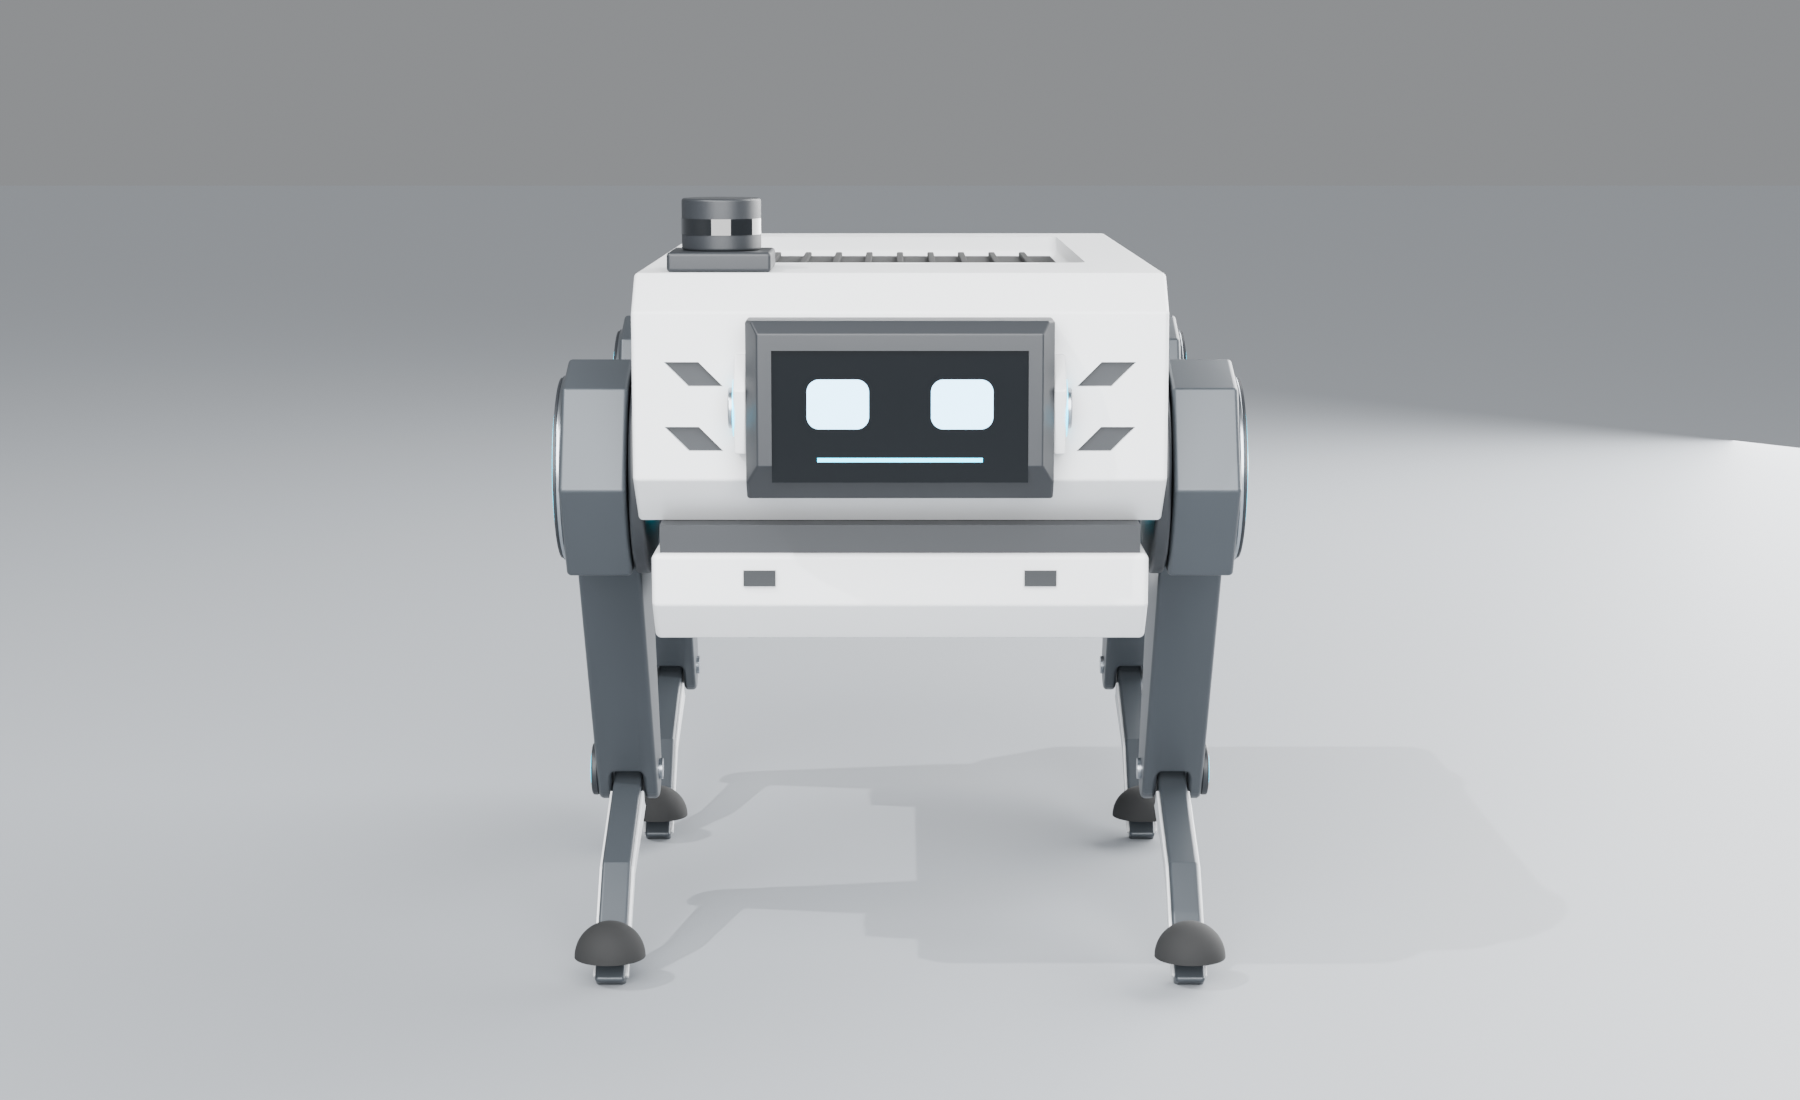
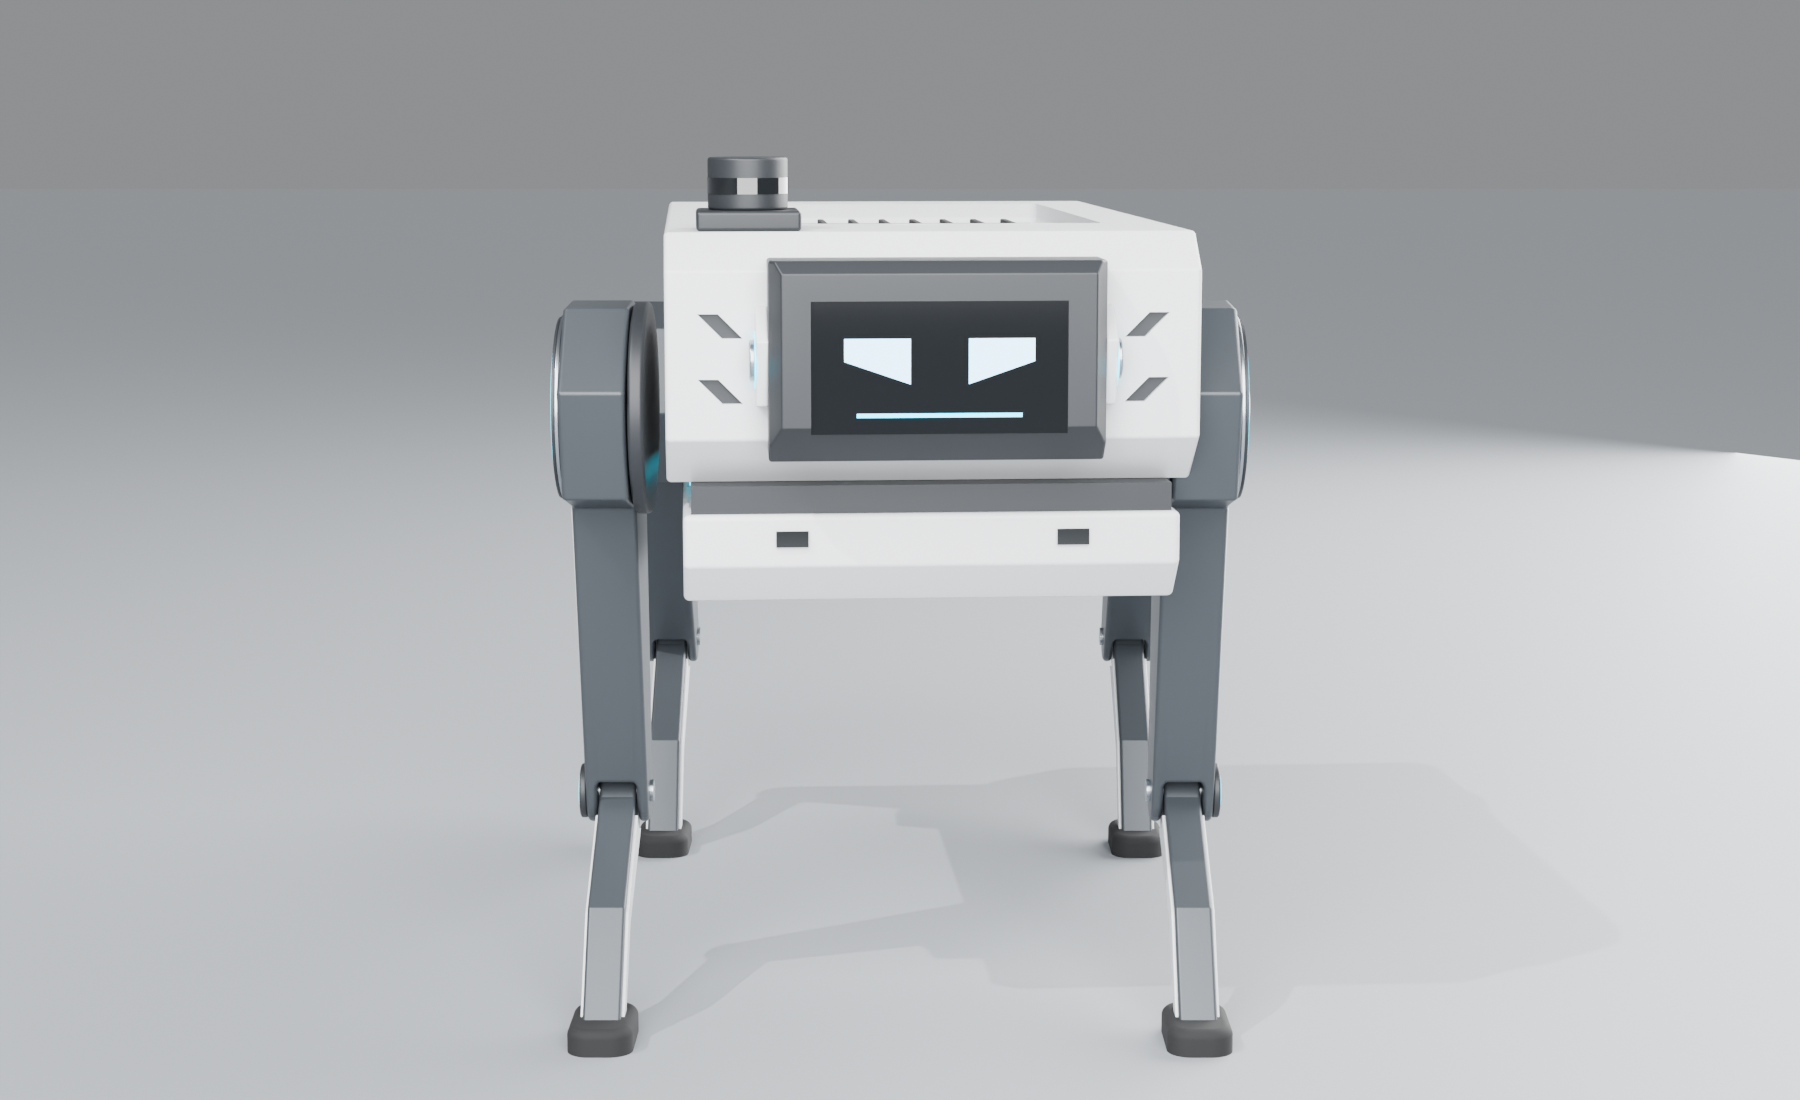
007A 外观 v7（不怂）：腿伸直（膝 110°）、四脚撑开 ±45、机身前高后低 4°、头上移做大、小腿加宽、平底宽脚垫、眼睛改成有棱角；附 v6.1 对比图

Changed region(s): [[0.28, 0.1236, 0.7156, 0.9891], [0.8711, 0.3709, 1.0, 0.4327]]

diff --git a/007a/model.py b/007a/model.py
@@ -31,8 +31,11 @@ H0, K0, B0, T0 = (97, 122), (307, 262), (213, 295), (155, 345)
 L1 = 230.0
 S = L1 / math.dist(H0, K0)
 LS = math.dist(K0, T0) * S                       # 小腿（膝 → 脚尖）
-STAND_KNEE = 90.0
-HIP_Z = math.sqrt(L1 ** 2 + LS ** 2 - 2 * L1 * LS * math.cos(math.radians(STAND_KNEE)))
+STAND_KNEE = 110.0                               # v7：膝伸直一些（90° 太蹲，看着怂）
+FOOT_DX = 45.0                                   # v7：前脚放在前髋前面 45、后脚放在后髋后面 45（四脚撑开）
+PITCH = 4.0                                      # v7：机身前高后低 4°（挺胸）
+_D = math.sqrt(L1 ** 2 + LS ** 2 - 2 * L1 * LS * math.cos(math.radians(STAND_KNEE)))
+HIP_Z = math.sqrt(_D ** 2 - FOOT_DX ** 2)        # 机身中心处的髋高（前髋略高、后髋略低）
 Z0 = HIP_Z - 80.0                                # 机身底离地（髋在下层底盘上方）
 TUB_TOP, WAIST_TOP = Z0 + 46, Z0 + 60            # 下层底盘顶、黑腰顶（上层外壳 125 高）
 TOP = Z0 + BODY_H
@@ -60,7 +63,7 @@ HUB_F = _hub_scale()
 KNEE_TOP = [(303, 234), (311, 245), (313, 262)]
 KNEE_BOT = [(296, 266)]
 SHANK_SK = [(310, 250), (317, 265), (311, 285), (218, 303), (160, 348), (149, 340), (208, 288), (294, 262)]
-T_THIGH, T_SHANK = 34.0, 16.0                    # v3：小腿插在大腿膝盖的叉口里，两段在同一个面上
+T_THIGH, T_SHANK = 34.0, 20.0                    # v3：小腿插在大腿膝盖的叉口里，两段在同一个面上
 LEG_Y = W2 + 8 + T_THIGH / 2                     # 大腿中面离中线
 
 
@@ -181,10 +184,17 @@ def leg_2d(foot=(0.0, -HIP_Z)):
     return thigh, shank, knee, foot
 
 
+def pitch_xz(x, z):
+    """机身（水平画的）上的点 → 抬头 PITCH 以后的位置（绕机身中心 (0, HIP_Z) 转）。"""
+    a = math.radians(PITCH)
+    dz = z - HIP_Z
+    return x * math.cos(a) - dz * math.sin(a), HIP_Z + x * math.sin(a) + dz * math.cos(a)
+
+
 def leg_parts(fx, sy):
-    """一条腿（fx = 1 前 / -1 后，sy = 1 左 / -1 右）的零件，已放到机身上。"""
-    thigh, shank, knee, foot = leg_2d()
-    hx, hz = fx * HIP_X, HIP_Z
+    """一条腿（fx = 1 前 / -1 后，sy = 1 左 / -1 右）的零件，已放到机身上。髋跟着机身抬头，脚踩在地上撑开。"""
+    hx, hz = pitch_xz(fx * HIP_X, HIP_Z)
+    thigh, shank, knee, foot = leg_2d((fx * (HIP_X + FOOT_DX) - hx, -hz))
     P = []
 
     def place(s, y0):
@@ -222,17 +232,18 @@ def leg_parts(fx, sy):
         P.append((f"髋螺栓{k}", place(cyl_y(30 * math.cos(a), 30 * math.sin(a), 6, y_out + 4, y_out + 5.5), 0), "metal"))
     # 小腿：和大腿同一个中面，插在叉口里；两面各贴一条浅色盖板
     ys0 = yc - T_SHANK / 2
-    sh = soft(prism_xz(shank, ys0, ys0 + T_SHANK), 2.0)
+    sh = soft(prism_xz_offset(shank, 3.0, ys0, ys0 + T_SHANK), 2.0)          # v7：小腿轮廓外扩 3（更结实）
     P.append(("小腿", place(sh, 0), "skel"))
     for y0, y1 in ((ys0 - 1.5, ys0 + 0.5), (ys0 + T_SHANK - 0.5, ys0 + T_SHANK + 1.5)):
-        sc = prism_xz_offset(shank, -4.0, y0, y1).cut(cyl_y(kx, kz, 2 * RK + 8, y0 - 1, y1 + 1))
+        sc = prism_xz_offset(shank, -1.5, y0, y1).cut(cyl_y(kx, kz, 2 * RK + 8, y0 - 1, y1 + 1))
         P.append((f"小腿盖板{y0:.0f}", place(soft(sc, 0.6), 0), "shell"))
     P.append(("膝轴", place(cyl_y(kx, kz, 12, yc - T_THIGH / 2 - 2, y_out + 3), 0), "metal"))
     P.append(("膝盖帽外", place(soft(cyl_y(kx, kz, 30, y_out, y_out + 4), 1.2), 0), "skel_dk"))
     P.append(("膝光点", place(ring_y(kx, kz, 20, 15, y_out + 4, y_out + 4.6), 0), "cyan"))
     fxp, fzp = foot
-    pad = cq.Solid.makeSphere(19, V(fxp, ys0 + T_SHANK / 2, fzp + 17)).cut(box(fxp - 30, fxp + 30, ys0 - 20, ys0 + 50, fzp - 10, fzp + 1))
-    P.append(("脚垫", place(pad.translate(V(0, 0, -1)), 0), "rubber"))      # 加大、底下削平一点（站得稳）
+    yc_p = ys0 + T_SHANK / 2                                        # v7：平底宽脚垫 56 × 34 × 14，顶面倒圆，底下平的
+    pad = cq.Workplane("XY").box(56, 34, 14).edges("|Z").fillet(12).faces(">Z").edges().fillet(5).val()
+    P.append(("脚垫", place(pad.translate(V(fxp - 6, yc_p, fzp + 7)), 0), "rubber"))
     # 机身侧面的髋座（外摆电机的法兰，深色圆盘）
     P.append(("髋座", place(soft(cyl_y(0, 0, MOTOR_D + 18, W2 - 1, W2 + 7), 2.0), 0), "skel_dk"))
     tag = ("前" if fx > 0 else "后") + ("左" if sy > 0 else "右")
@@ -272,11 +283,12 @@ def body_parts():
     # 前脸：屏幕窗 + 两边各两道凹槽（照用户的前脸图）
     sw, sh = 124.0, 64.0                                           # 4.3 寸屏露出来的部分
     zc = WAIST_TOP + (TOP - WAIST_TOP) / 2 - 2
-    HW, HH, HD = sw + 26, sh + 24, 30.0                              # 头：往前凸出的屏幕模块（宽、高、伸出来多少）
+    HW, HH, HD = sw + 40, sh + 34, 32.0                              # 头：往前凸出的屏幕模块（v7 做大）
+    zh = TOP - HH / 2 - 12                                           # v7：头放在前脸上部（原来在中间偏下，上面空一块）
     grooves = []
     for sy in (1, -1):                                             # 两边各两道平行斜槽（45°，和机身切角统一）
         y_in, y_end = sy * (HW / 2 + 12), sy * (W2 - 14)
-        for z0, z1 in ((zc + 10, zc + 22), (zc - 22, zc - 10)):
+        for z0, z1 in ((zh + 10, zh + 22), (zh - 22, zh - 10)):
             h = z1 - z0
             pts = [(y_in, z0), (y_end - sy * h, z0), (y_end, z1), (y_in + sy * h, z1)]   # 平行四边形：都往外上方斜
             slab = slab.cut(prism_yz(pts, L2 - 1, L2 + 10))
@@ -306,7 +318,7 @@ def body_parts():
         P.append((f"字样{sy}", txt, "skel_dk"))
     # ---- 头：深色屏幕模块从前脸往前伸 30，前面切角（像头盔面罩）；两侧金属圆盖 = 抬头低头的转轴
     hx0, hx1 = L2 + 4, L2 + 4 + HD
-    zb, zt = zc - HH / 2, zc + HH / 2
+    zb, zt = zh - HH / 2, zh + HH / 2
     prof = [(hx0 - 10, zb + 4), (hx1 - 18, zb), (hx1, zb + 18), (hx1, zt - 6), (hx1 - 6, zt), (hx0 - 10, zt)]   # 侧面：下巴往回收
     head = prism_xz(prof, -HW / 2, HW / 2)
     for sy in (1, -1):                                             # 前面两侧切掉一个斜角（收窄）
@@ -314,20 +326,22 @@ def body_parts():
                                             (hx1 + 12, sy * (HW / 2 - 13))]).close().extrude(HH + 20).val()
         head = head.cut(tri.translate(V(0, 0, zb - 10)))
     head = soft(head, 1.5)
-    head = head.cut(box(hx1 - 3, hx1 + 1, -sw / 2, sw / 2, zc - sh / 2 - 2, zc + sh / 2 - 2))
+    head = head.cut(box(hx1 - 3, hx1 + 1, -sw / 2, sw / 2, zh - sh / 2 - 2, zh + sh / 2 - 2))
     P.append(("头", head, "skel_dk"))
     for sy in (1, -1):                                             # 头两侧的鳍（装转轴的“耳朵”）
-        fin = prism_xz([(hx0 - 6, zc - 22), (hx0 + 14, zc - 22), (hx0 + 22, zc + 10), (hx0 + 4, zc + 26), (hx0 - 6, zc + 26)],
+        fin = prism_xz([(hx0 - 6, zh - 22), (hx0 + 14, zh - 22), (hx0 + 22, zh + 10), (hx0 + 4, zh + 26), (hx0 - 6, zh + 26)],
                        *sorted((sy * HW / 2, sy * (HW / 2 + 6))))
         P.append((f"头鳍{sy}", soft(fin, 1.2), "shell"))
-    P.append(("屏幕", box(hx1 - 3, hx1 - 1.5, -sw / 2, sw / 2, zc - sh / 2 - 2, zc + sh / 2 - 2), "glass"))
+    P.append(("屏幕", box(hx1 - 3, hx1 - 1.5, -sw / 2, sw / 2, zh - sh / 2 - 2, zh + sh / 2 - 2), "glass"))
     for ey in (-30, 30):
-        eye = cq.Workplane("YZ").rect(30, 24).extrude(0.4).edges("|X").fillet(6).val().translate(V(hx1 - 1.4, ey, zc + 4))
+        so = 1 if ey > 0 else -1                                     # 外侧方向
+        pts = [(ey - so * 16, zh + 12), (ey + so * 16, zh + 12), (ey + so * 16, zh + 1), (ey - so * 16, zh - 10)]
+        eye = cq.Workplane("YZ").polyline(pts).close().extrude(0.4).val().translate(V(hx1 - 1.4, 0, 0))
         P.append((f"眼睛{ey}", eye, "eye"))
-    P.append(("屏幕下沿灯", box(hx1 - 1.3, hx1 - 0.9, -40, 40, zc - sh / 2 + 8, zc - sh / 2 + 10), "cyan"))
+    P.append(("屏幕下沿灯", box(hx1 - 1.3, hx1 - 0.9, -40, 40, zh - sh / 2 + 6, zh - sh / 2 + 8), "cyan"))
     for sy in (1, -1):
-        P.append((f"头转轴盖{sy}", soft(cyl_y(hx0 + 6, zc, 20, *sorted((sy * (HW / 2 + 6), sy * (HW / 2 + 9)))), 0.8), "metal"))
-        P.append((f"头转轴光环{sy}", ring_y(hx0 + 6, zc, 28, 23, *sorted((sy * (HW / 2 + 6), sy * (HW / 2 + 6.6)))), "cyan"))
+        P.append((f"头转轴盖{sy}", soft(cyl_y(hx0 + 6, zh, 20, *sorted((sy * (HW / 2 + 6), sy * (HW / 2 + 9)))), 0.8), "metal"))
+        P.append((f"头转轴光环{sy}", ring_y(hx0 + 6, zh, 28, 23, *sorted((sy * (HW / 2 + 6), sy * (HW / 2 + 6.6)))), "cyan"))
     # 激光雷达：人面对它看的左上角（= 机器人自己的右边，-y），照用户的前脸图
     lx, ly = L2 - 46, -(W2 - 40)
     P.append(("雷达座", soft(box(lx - 26, lx + 26, ly - 26, ly + 26, TOP, TOP + 10), 2.0), "skel_dk"))
@@ -347,7 +361,7 @@ def body_parts():
 
 
 def all_parts():
-    P = body_parts()
+    P = [(n, sol.rotate(V(0, 0, HIP_Z), V(0, 1, 0), -PITCH), c) for n, sol, c in body_parts()]   # 机身前高后低（挺胸）
     for fx in (1, -1):
         for sy in (1, -1):
             P += leg_parts(fx, sy)
